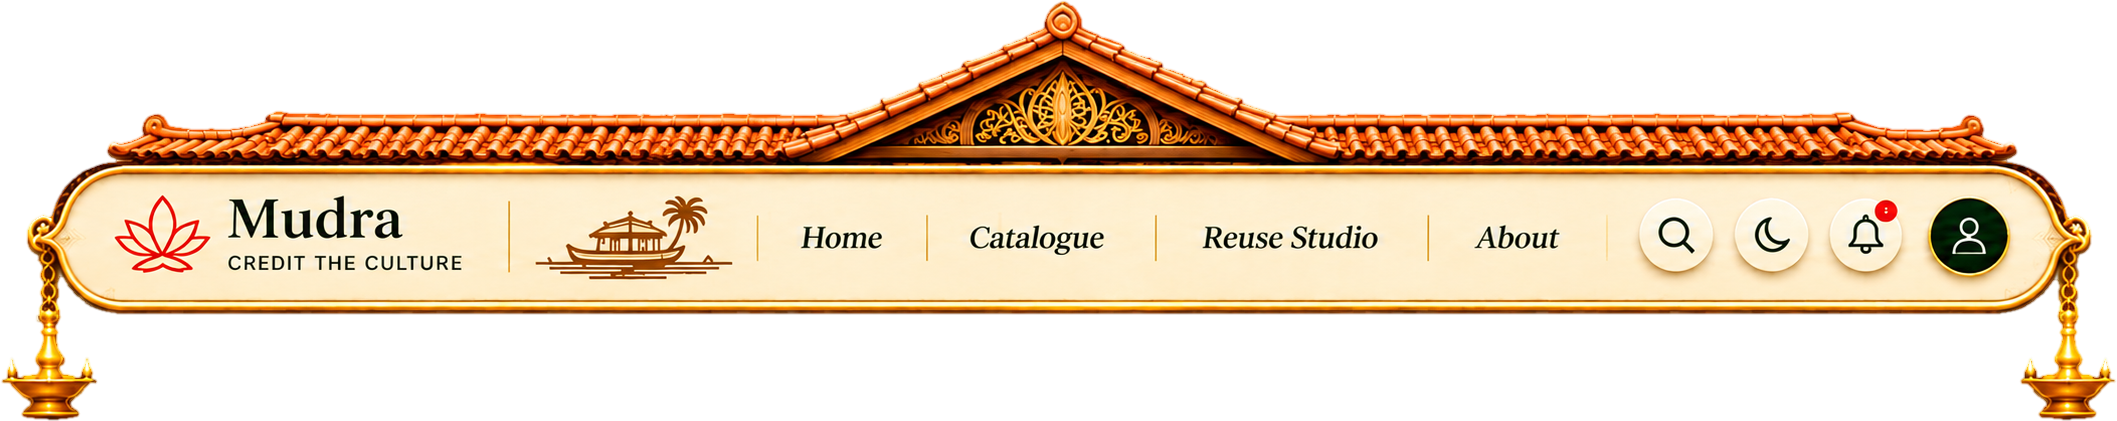
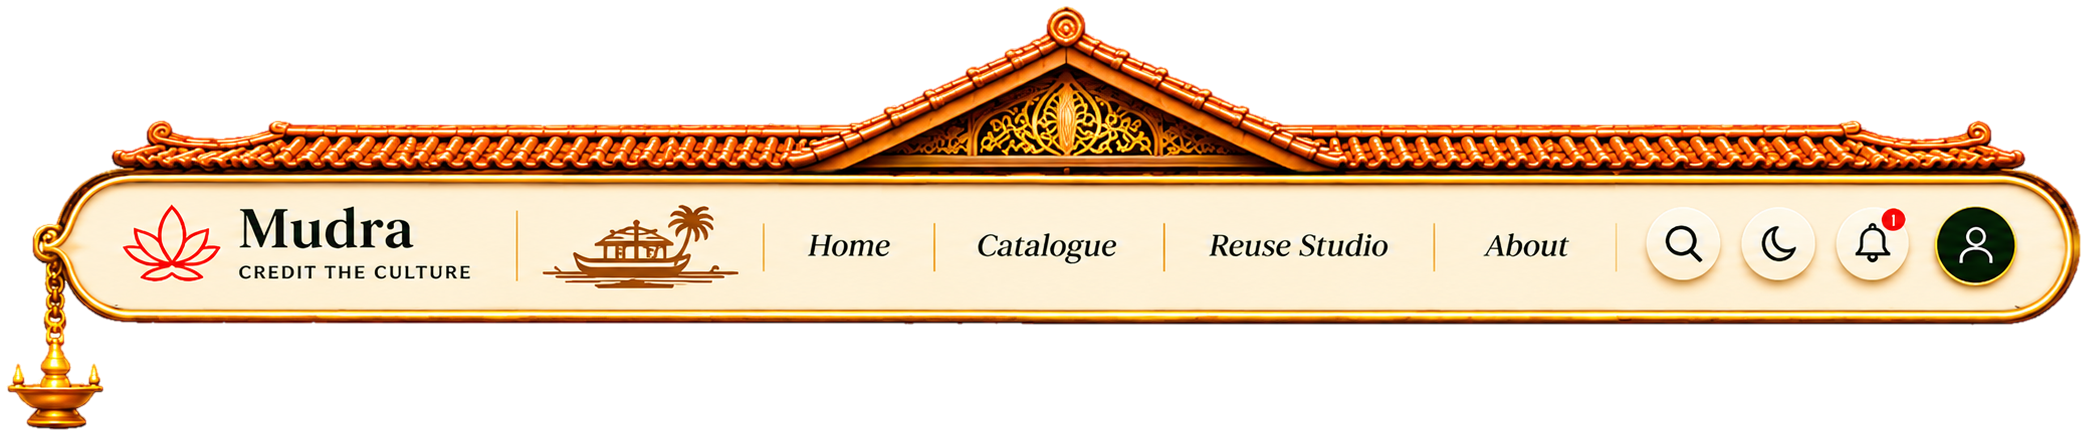
fix(hero): integrate kasavu under-plate, smooth theme switch, and navbar artwork update

Changed region(s): [[0.0, 0.0, 1.0, 1.0]]

diff --git a/src/app/home-premium-plus.css b/src/app/home-premium-plus.css
@@ -374,7 +374,7 @@ body { line-height: 1.72; }
 }
 
 /* ==========================================================================
-   18. PADIPPURA / NALUKETTU ROOF NAVBAR (master artwork, 2117 x 421)
+   18. PADIPPURA / NALUKETTU ROOF NAVBAR (master artwork, 2087 x 436)
    - Bar spans ~94% of the viewport (max 1500px), centred, floating over the hero.
    - Artwork is the clean bar (no baked-in active state). The green active pill,
      gold diamonds and label are live HTML, so they follow the current page.
@@ -382,7 +382,7 @@ body { line-height: 1.72; }
    ========================================================================== */
 :root {
   --nav-w: min(88vw, 980px);
-  --nav-h: calc(var(--nav-w) / 5.0285); /* 2117 / 421 */
+  --nav-h: calc(var(--nav-w) / 4.7867); /* 2087 / 436 */
 }
 
 body .site-header.padippura-header,
@@ -427,7 +427,7 @@ body:has(.hero) .site-header.padippura-header::after,
 .padippura-desktop-stage {
   position: relative;
   width: var(--nav-w);
-  aspect-ratio: 2117 / 421;
+  aspect-ratio: 2087 / 436;
   margin: 4px auto 0;
   pointer-events: auto;
   container-type: inline-size;
@@ -440,7 +440,7 @@ body:has(.hero) .site-header.padippura-header::after,
 }
 
 /* Hotspots: left/width are % of artwork width, top/height % of artwork height.
-   Bar centre line is y = 56.05% (236 / 421). */
+   Bar centre line is y = 55.96% (244 / 436). */
 .padippura-hotspots { position: absolute; inset: 0; pointer-events: none; }
 .padippura-hotspot {
   position: absolute;
@@ -455,26 +455,26 @@ body:has(.hero) .site-header.padippura-header::after,
 .padippura-hotspot:focus-visible { outline: 2px solid #dfb76c; outline-offset: 3px; }
 
 /* Brand: lotus + Mudra + Credit the Culture */
-.spot-brand { left: 5.1%; width: 17.1%; top: 41.6%; height: 29.7%; border-radius: 14px; }
+.spot-brand { left: 5.56%; width: 17.44%; top: 45.64%; height: 20.64%; border-radius: 14px; }
 
 /* Text links: 62px-tall pills centred on the bar */
 .spot-home, .spot-catalogue, .spot-reuse, .spot-about {
-  top: 48.7%; height: 14.7%; border-radius: 999px;
+  top: 48.85%; height: 14.22%; border-radius: 999px;
   display: flex; align-items: center; justify-content: center;
 }
-.spot-home      { left: 36.47%; width: 6.61%; }
-.spot-catalogue { left: 44.45%; width: 8.97%; }
-.spot-reuse     { left: 55.41%; width: 11.1%; }
-.spot-about     { left: 68.3%; width: 6.71%; }
+.spot-home      { left: 36.99%; width: 7.38%; }
+.spot-catalogue { left: 45.23%; width: 10.06%; }
+.spot-reuse     { left: 56.25%; width: 11.98%; }
+.spot-about     { left: 69.19%; width: 7.76%; }
 
-/* Round buttons (diameter ~74px in artwork) */
+/* Round buttons (diameter ~72px in artwork) */
 .spot-search, .spot-theme, .spot-bell, .spot-avatar {
-  top: 47.27%; height: 17.58%; border-radius: 50%;
+  top: 48.2%; height: 16.51%; border-radius: 50%;
 }
-.spot-search { left: 77.42%; width: 3.5%; }
-.spot-theme  { left: 81.96%; width: 3.5%; }
-.spot-bell   { left: 86.44%; width: 3.5%; }
-.spot-avatar { left: 91.17%; width: 3.68%; top: 46.8%; height: 18.5%; }
+.spot-search { left: 78.92%; width: 3.45%; }
+.spot-theme { left: 83.47%; width: 3.45%; }
+.spot-bell { left: 88.02%; width: 3.45%; }
+.spot-avatar { left: 92.81%; width: 3.74%; top: 47.5%; height: 17.89%; }
 .spot-theme { background: transparent !important; min-height: 0 !important; }
 
 /* Hover: soft gold halo (links and buttons) */

diff --git a/src/app/hero-float.css b/src/app/hero-float.css
@@ -189,3 +189,51 @@ html.motion .l-lamp {
     inset: 0 0 -2px 0;
   }
 }
+
+
+/* ==========================================================================
+   FIX 1 · KASAVU BLANK
+   The cloth plate scaled about 92% 62% while the Kathakali plate scales about the
+   centre, so the cloth slid ~28px away from the cut-out it was taken from and left
+   a blank. The cloth now keeps its right-hand pivot for the gentle swing, but its
+   resting pose is offset so it lands exactly on the cut-out. A static under-plate
+   (.l-under, the original full artwork) fills any sliver the swing uncovers.
+   ========================================================================== */
+@keyframes cloth-in {
+  from { opacity: 0; transform: translate3d(calc(90px - 1.68%), calc(var(--sy, 0) * .04px - .48%), 60px) scale(1.02); }
+  to   { opacity: 1; transform: translate3d(-1.68%, calc(var(--sy, 0) * .04px - .48%), 60px) scale(.96); }
+}
+@keyframes kas-drift {
+  0%   { rotate: -.12deg; translate: 0 -2px; }
+  35%  { rotate:  .22deg; translate: 0  1px; }
+  70%  { rotate:  .04deg; translate: 0  2px; }
+  100% { rotate:  .30deg; translate: 0 -1px; }
+}
+:root:not([data-theme='dark']) .hero-stage .l-cloth {
+  transform: translate3d(-1.68%, calc(var(--sy, 0) * .04px - .48%), 60px) scale(.96);
+  rotate: 0deg;
+}
+html.motion .l-cloth {
+  animation:
+    cloth-in 1.9s cubic-bezier(.2, .7, .2, 1) 1.75s both,
+    kas-drift 9s ease-in-out 3.6s infinite alternate;
+}
+@media (prefers-reduced-motion: reduce) { .l-cloth { animation: none !important; } }
+.hero-stage .l-under { display: none; filter: none; }
+:root:not([data-theme='dark']) .hero-stage .l-under { display: block; filter: none; }
+
+/* ==========================================================================
+   FIX 2 · SMOOTH THEME SWITCH
+   The old circular reveal animated clip-path over two full-screen snapshots of a
+   heavy page (3D hero, blur, drop-shadows), which is what stuttered. The switch is
+   now a short cross-fade of the two snapshots: opacity only, so it runs on the GPU.
+   ========================================================================== */
+::view-transition-group(root) { animation-duration: .38s; animation-timing-function: ease-in-out; }
+::view-transition-old(root), ::view-transition-new(root) { mix-blend-mode: normal; clip-path: none; }
+::view-transition-old(root) { animation: vt-fade-out .38s ease-in-out both; z-index: 1; }
+::view-transition-new(root) { animation: vt-fade-in .38s ease-in-out both; z-index: 2; }
+@keyframes vt-fade-in  { from { opacity: 0; } to { opacity: 1; } }
+@keyframes vt-fade-out { from { opacity: 1; } to { opacity: 1; } }
+@media (prefers-reduced-motion: reduce) {
+  ::view-transition-old(root), ::view-transition-new(root) { animation: none !important; }
+}

diff --git a/src/app/layout.tsx b/src/app/layout.tsx
@@ -28,6 +28,9 @@ export const viewport: Viewport = { width: 'device-width', initialScale: 1, them
 /** Runs before first paint so the saved (or system) theme is applied with no flash. */
 const THEME_BOOT = `try{var t=localStorage.getItem('mudra-theme');if(!t&&window.matchMedia('(prefers-color-scheme: dark)').matches)t='dark';if(t==='dark'||t==='light')document.documentElement.setAttribute('data-theme',t)}catch(e){}try{if(!window.matchMedia('(prefers-reduced-motion: reduce)').matches)document.documentElement.classList.add('motion')}catch(e){}`;
 
+/** After first paint, decode the hidden theme's hero art in idle time so the theme switch never waits on image decoding. */
+const THEME_WARM = `(function(){function w(){try{document.querySelectorAll('.hero-stage img').forEach(function(i){if(i.decode)i.decode().catch(function(){})})}catch(e){}}if('requestIdleCallback' in window)requestIdleCallback(w,{timeout:2500});else setTimeout(w,1500)})()`;
+
 function Brand() {
   return (
     <a className="brand" href="/" aria-label={`Mudra, ${TAGLINE}. Home`}>
@@ -108,6 +111,7 @@ export default function RootLayout({ children }: { children: React.ReactNode }) 
           </div>
         </footer>
         <Motion />
+        <script dangerouslySetInnerHTML={{ __html: THEME_WARM }} />
       </body>
     </html>
   );

diff --git a/src/app/page.tsx b/src/app/page.tsx
@@ -48,6 +48,8 @@ export default async function Home() {
             <img className="layer l-bg l-lamp lt" src="/mudra/hero-lamp-glow.webp" alt="" decoding="async" />
             <div className="mist" />
             {/* Kathakali: same artwork, same place. The cloth is cut away to its own layer below so only the kasavu floats */}
+            {/* Static under-plate (the original full artwork): if the floating cloth ever drifts, this fills the gap so no blank shows */}
+            <img className="layer l-fig l-under lt" src="/mudra/hero-figure.webp" alt="" decoding="async" />
             <img className="layer l-fig lt" src="/mudra/hero-figure-top.webp" alt="" fetchPriority="high" decoding="async" />
             <img className="layer l-cloth lt" src="/mudra/hero-cloth.webp" alt="" fetchPriority="high" decoding="async" />
             <div className="cloth-sheen lt" />
